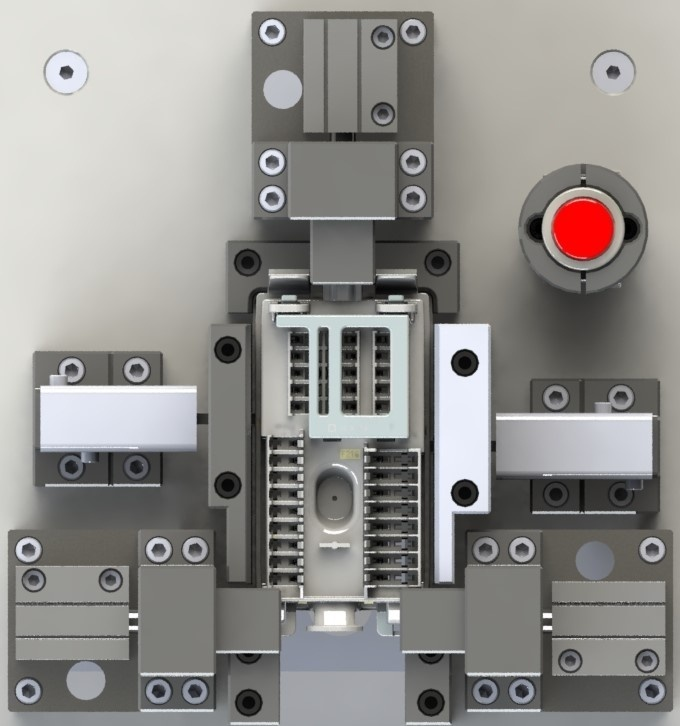
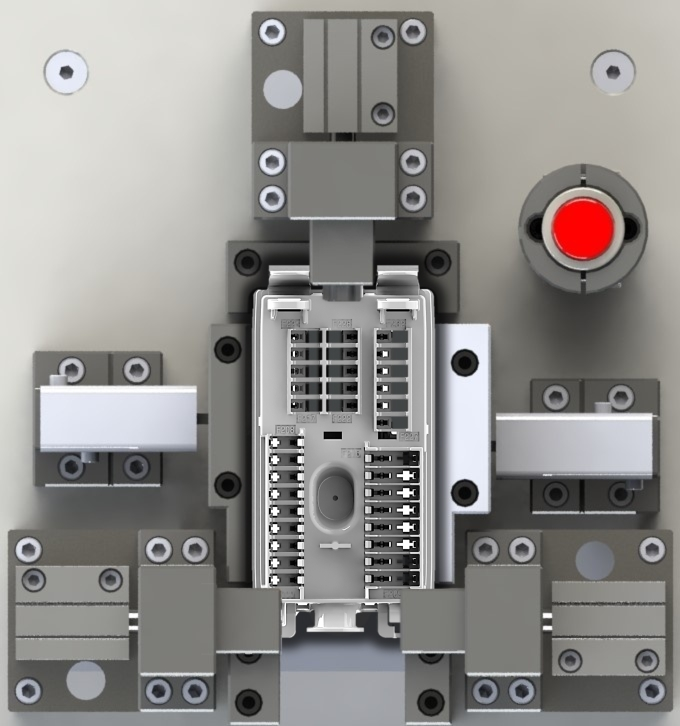
Se agrega la inspeccion del bracket PDCD
Se agrega PDCDbracket a las cajas pedidas,  y cuando detecta que la caja PDCD está clampeada al finalizar la inspeccion de las cajas clampeadas te pedirá colocar el bracket y comenzar la inspección, se contempla inspección de altura e inspeccion de vision

Changed region(s): [[0.3397, 0.3333, 0.6794, 0.9091]]

diff --git a/MANAGER/VISION/app/manager/model/__init__.py b/MANAGER/VISION/app/manager/model/__init__.py
@@ -49,6 +49,10 @@ class Model (object):
         self.F96_pendiente=False
         self.tiempo = ""
 
+        self.BRACKET_PDCD_clampeado=False
+        self.PDCD_bracket_pendiente=False
+        self.PDCD_bracket_terminado=False
+
         self.BB = {
             'BATTERY': {
                 'BT': ((169, 157), (231, 212))}, 
@@ -287,6 +291,9 @@ class Model (object):
                 'F228': [(376, 401), (388, 413)], 'F229': [(377, 386), (388, 392)], 'F230': [(378, 367), (390, 377)], 'F231': [(374, 350), (388, 362)], 
                 'F232': [(376, 333), (389, 344)]
                 },
+            'PDC-Dbracket':{
+                'bracket': [(273, 304), (420, 447)]
+                },
             'F96':{
                 'F96': [(253, 337), (483, 425)]
                 },
@@ -402,7 +409,8 @@ class Model (object):
             "PDC-R": ["R1","R2","R3","R4","R5","R6","R7","R8"],
             "PDC-RMID": ["R1","R2","R3","R4","R5","R6"],
             "PDC-RS": ["R1","R2","R3","R4","R5","R6"],
-            "F96": ["F96"]
+            "F96": ["F96"],
+            "PDC-Dbracket": ["Db1"]
             }
         #puntos guardados en robot a los que irá para sus inspecciones de visión
         self.rv_triggers = {
@@ -414,7 +422,8 @@ class Model (object):
             "PDC-R": ["PDCR_vision_1","PDCR_vision_2","PDCR_vision_3","PDCR_vision_4","PDCR_vision_5","PDCR_vision_6","PDCR_vision_7","PDCR_vision_8"],
             "PDC-RMID": ["PDCRMID_vision_1","PDCRMID_vision_2","PDCRMID_vision_3","PDCRMID_vision_4","PDCRMID_vision_5","PDCRMID_vision_6"],
             "PDC-RS": ["PDCRMID_vision_1","PDCRMID_vision_2","PDCRMID_vision_3","PDCRMID_vision_4","PDCRMID_vision_5","PDCRMID_vision_6"],
-            "F96": ["F96_vision_1"]
+            "F96": ["F96_vision_1"],
+            "PDC-Dbracket": ["PDCDbracket_vision_1"]
             }
         #nombre de programas a llamar para inspección de zonas(por bloque) en sensor (altura) en cada punto del robot
         self.h_triggers = {
@@ -425,7 +434,8 @@ class Model (object):
             "PDC-R": ["R1","R6","R10","R2","R4","R5","R3","R7","R8","R9","R11","R12","R13","R14"],
             "PDC-RMID": ["R1","R6","R10","R2","R4","R5","R3","R7","R8","R9"],
             "PDC-RS": ["R1","R6","R10","R2","R4","R5","R3","R7","R8","R9"],
-            "F96": ["F96"]
+            "F96": ["F96"],
+            "PDC-Dbracket": ["Db1"]
             }
         
         #puntos guardados en robot a los que irá para sus inspecciones de alturas
@@ -437,7 +447,8 @@ class Model (object):
             "PDC-R": ["PDCR_pa1","PDCR_pa6","PDCR_pa10","PDCR_pa2","PDCR_pa4","PDCR_pa5","PDCR_pa3","PDCR_pa7","PDCR_pa8","PDCR_pa9","PDCR_pa11","PDCR_pa12","PDCR_pa13","PDCR_pa14"],
             "PDC-RMID": ["PDCR_pa1","PDCR_pa6","PDCR_pa10","PDCR_pa2","PDCR_pa4","PDCR_pa5","PDCR_pa3","PDCR_pa7","PDCR_pa8","PDCR_pa9"],
             "PDC-RS": ["PDCR_pa1","PDCR_pa6","PDCR_pa10","PDCR_pa2","PDCR_pa4","PDCR_pa5","PDCR_pa3","PDCR_pa7","PDCR_pa8","PDCR_pa9"],
-            "F96": ["F96_pa1"]
+            "F96": ["F96_pa1"],
+            "PDC-Dbracket": ["PDCDbracket_pa1"]
             }
 
         print("v_triggers:\n",self.v_triggers)
@@ -493,7 +504,8 @@ class Model (object):
             "conector2":" PDCP2",
             "conector3":" PDCP2",
             "conector4":" PDCP2",
-            "conector5":" PDCP2"
+            "conector5":" PDCP2",
+            "bracket1":" PDCD"
 
             }
 
@@ -508,6 +520,10 @@ class Model (object):
     ###########################################################
 
     def reset (self):
+        self.BRACKET_PDCD_clampeado=False
+        self.PDCD_bracket_terminado=False
+        self.PDCD_bracket_pendiente=False
+        self.cajas_a_desclampear=[]
         self.F96_clampeado=False
         self.cajas_a_desclampear = []
         self.datetime = None
@@ -597,6 +613,9 @@ class Model (object):
                 'F218': 'vacio', 'F219': 'vacio', 'F220': 'vacio', 'F221': 'vacio', 'F222': 'vacio', 'F223': 'vacio', 'F224': 'vacio', 'F225': 'vacio', 'F226': 'vacio',
                 'F227': 'vacio', 'F228': 'vacio', 'F229': 'vacio', 'F230': 'vacio', 'F231': 'vacio', 'F232': 'vacio'
                 }, 
+            'PDC-Dbracket': {
+                'bracket': 'bracket1'
+                },
             'PDC-P': {
                 'MF1': 'vacio', 'MF2': 'vacio', 'F301': 'vacio', 'F302': 'vacio', 'F303': 'vacio', 'F304': 'vacio', 'F305': 'vacio', 'F300': 'vacio', 'F318': 'vacio',
                 'F319': 'vacio', 'F320': 'vacio', 'F321': 'vacio', 'F322': 'vacio', 'F323': 'vacio', 'F324': 'vacio', 'F325': 'vacio', 'F326': 'vacio', 'F327': 'vacio',
@@ -661,12 +680,12 @@ class Model (object):
                 for i in BB:
                     pts = self.fuses_BB[i[0]][i[1]]
                     rectangle(img, pts[0], pts[1], color, 2)
-                    if BB[0]=="PDC-P2":
+                    if BB[0]=="PDC-P2" or BB[0]=="PDC-Dbracket":
                         rectangle(img, pts[0], pts[1], color, 20)
             else:
                 pts = self.fuses_BB[BB[0]][BB[1]]
                 rectangle(img, pts[0], pts[1], color, 2)
-                if BB[0]=="PDC-P2":
+                if BB[0]=="PDC-P2" or BB[0]=="PDC-Dbracket":
                     rectangle(img, pts[0], pts[1], color, 20)
         except Exception as ex:
             print("Model.drawBB exception: ", ex)

diff --git a/MANAGER/VISION/app/manager/controller/inspections.py b/MANAGER/VISION/app/manager/controller/inspections.py
@@ -47,6 +47,7 @@ class Inspections(QState):
         ##con f96 sin instrumentar
         self.update_triggers.addTransition(self.update_triggers.F96_espera,self.wait_start)
         ##
+        self.update_triggers.addTransition(self.update_triggers.BRACKET_PDCD,self.wait_start)
         self.vision.addTransition(self.vision.retry, self.setup_robot)
         self.vision.addTransition(self.vision.finished, self.height)
         self.height.addTransition(self.height.retry, self.setup_robot)
@@ -87,11 +88,20 @@ class WaitStart(QState):
 
         print("############################## ESTADO: WaitStart INSPECTIONS ############################")
 
-        command = {
-            "lbl_result" : {"text": ""},
-            "lbl_steps" : {"text": "Presiona START para comenzar", "color": "green"}
-            }
-        publish.single(self.model.pub_topics["gui"],json.dumps(command),hostname='127.0.0.1', qos = 2)
+        if self.model.PDCD_bracket_pendiente and self.model.PDCD_bracket_terminado==False:
+
+            command = {
+                "lbl_result" : {"text": "Coloca el bracket de la caja PDC-D"},
+                "lbl_steps" : {"text": "Presiona START para comenzar", "color": "green"},
+                "img_center" : "boxes/PDC-Dbracket.jpg"
+                }
+            publish.single(self.model.pub_topics["gui"],json.dumps(command),hostname='127.0.0.1', qos = 2)
+        else:
+            command = {
+                "lbl_result" : {"text": ""},
+                "lbl_steps" : {"text": "Presiona START para comenzar", "color": "green"}
+                }
+            publish.single(self.model.pub_topics["gui"],json.dumps(command),hostname='127.0.0.1', qos = 2)
 
 
 class SetRobot(QState):
@@ -134,16 +144,19 @@ class LiberarCajas(QState):
         super().__init__(parent)
         self.model = model
 
-    def onEntry(self, QEvent):
-        print("############################## ESTADO: LiberarCajas INSPECTIONS ############################")
+        if self.model.PDCD_bracket_terminado or self.model.PDCD_bracket_pendiente==False:
+            print("pdcd y bracket terminado")
+            for box in self.model.cajas_a_desclampear:
+                publish.single(self.model.pub_topics["plc"],json.dumps({box : False}),hostname='127.0.0.1', qos = 2)
 
-        for box in self.model.cajas_a_desclampear:
-            publish.single(self.model.pub_topics["plc"],json.dumps({box : False}),hostname='127.0.0.1', qos = 2)
-
-        #se limpia la variable
-        self.model.cajas_a_desclampear = []
-        self.model.desclampear_ready = False
-        self.ok.emit()
+            #se limpia la variable
+            self.model.cajas_a_desclampear = []
+            self.model.desclampear_ready = False
+            self.ok.emit()
+        else:
+            print("bracket no terminado")
+            self.model.desclampear_ready = False
+            self.ok.emit()
 
 
 class UpdateTriggers(QState):
@@ -152,6 +165,7 @@ class UpdateTriggers(QState):
     nok         = pyqtSignal()
     esperar_robot_home = pyqtSignal()
     F96_espera  = pyqtSignal()
+    BRACKET_PDCD     = pyqtSignal()
     def __init__(self, model = None, parent = None):
         super().__init__(parent)
         self.model = model
@@ -163,6 +177,12 @@ class UpdateTriggers(QState):
             command = {"trigger": "HOME"}
             publish.single(self.model.pub_topics["robot"], json.dumps(command), hostname='127.0.0.1', qos = 2)
             self.esperar_robot_home.emit()
+            return
+        if self.model.PDCD_bracket_pendiente and self.model.BRACKET_PDCD_clampeado==False:
+            self.model.BRACKET_PDCD_clampeado=True
+            self.model.input_data["plc"]["clamps"].append("PDC-Dbracket")
+            self.BRACKET_PDCD.emit()
+            print("va a return de update triggers por pdc dbracket")
             return
         if self.model.F96_pendiente and self.model.F96_clampeado==False:
             self.model.input_data["plc"]["clamps"].append("F96")

diff --git a/MANAGER/VISION/app/manager/view/comm.py b/MANAGER/VISION/app/manager/view/comm.py
@@ -231,7 +231,30 @@ class MqttClient (QObject):
                 ##############################################################################################
                 payload_str = json.dumps(payload)       # convertir diccionario payload a string y guardarlo
                 print("payload_str: ",payload_str)
-                
+                if "PDC-Dbracket" in payload_str: #busca en el string PDC-D
+                    #if "PDC-Dbracket" in payload:
+                    #    if payload["PDC-Dbracket"] == True:
+                    #        self.nido_PDCD = "PDC-Dbracket:\n Habilitada"
+                    #        self.color_PDCD = "blue"
+                    #
+                    #    if payload["PDC-Dbracket"] == False:
+                    #        self.nido_PDCD = ""
+                    #        self.color_PDCD = "blue"
+                    #
+                    if "PDC-Dbracket_ERROR" in payload:
+                        if payload["PDC-D_ERROR"] == True:
+                            self.nido_PDCD = "PDC-Dbracket:\n clampeo incorrecto"
+                            self.color_PDCD = "red"
+
+                    if "clamp_PDC-Dbracket" in payload:
+                        if payload["clamp_PDC-Dbracket"] == True:
+                            self.nido_PDCD = "PDC-Dbracket:\n clampeo correcto"
+                            self.color_PDCD = "green"
+
+                    command = {
+                        "lbl_box1" : {"text": f"{self.nido_PDCD}", "color": f"{self.color_PDCD}"}
+                        }
+                    self.client.publish(self.model.pub_topics["gui"],json.dumps(command), qos = 2)
                 if "PDC-D" in payload_str: #busca en el string PDC-D
                     if "PDC-D" in payload:
                         if payload["PDC-D"] == True:
@@ -338,14 +361,14 @@ class MqttClient (QObject):
                     #    self.client.publish(self.model.pub_topics["gui"],json.dumps(command), qos = 2)
                 
 
-                if "PDC-S" in self.model.input_data["database"]["modularity"]:
-                    self.nido_PDCS = "PDC-S:\n Habilitada"
-                    self.color_PDCS = "blue"
-                    command = {
-                                "lbl_box4" : {"text": f"{self.nido_PDCS}", "color": f"{self.color_PDCS}"}
-                              }
-                    self.client.publish(self.model.pub_topics["gui"],json.dumps(command), qos = 2)
-
+                #if "PDC-S" in self.model.input_data["database"]["modularity"]:
+                #    self.nido_PDCS = "PDC-S:\n Habilitada"
+                #    self.color_PDCS = "blue"
+                #    command = {
+                #                "lbl_box4" : {"text": f"{self.nido_PDCS}", "color": f"{self.color_PDCS}"}
+                #              }
+                #    self.client.publish(self.model.pub_topics["gui"],json.dumps(command), qos = 2)
+                #
                 if "PDC-S" in payload_str:
                     if "PDC-S" in payload:
                         if payload["PDC-S"] == True:
@@ -586,6 +609,7 @@ class MqttClient (QObject):
 
             #variable para guardar los resultados obtenidos al hacer una inspección con sensor de altura keyence desde la GDI
             if message.topic == self.model.sub_topics["height"]:
+                self.model.input_data["height"].clear()
                 self.model.input_data["height"] = payload
                 print("*******************************************************")
                 print("model.input_data[height] en comm.py: \n",payload)

diff --git a/MANAGER/VISION/app/manager/controller/__init__.py b/MANAGER/VISION/app/manager/controller/__init__.py
@@ -150,7 +150,7 @@ class Startup(QState):
     def onEntry(self, event):
 
         print("############################## ESTADO: Startup ############################")
-
+        self.model.cajas_a_desclampear = []
         if self.model.local_data["user"]["type"] != "":
             Timer(0.05, self.logout, args = (copy(self.model.local_data["user"]),)).start()
 
@@ -833,7 +833,8 @@ class CheckQr (QState):
                 #Se agrega nueva inspeccion obligatoria para todos los arneses la caja PDC-P2
                 self.model.input_data["database"]["modularity"]["PDC-P2"] = ['CONECTOR1', 'CONECTOR2']
                 
-                
+                #Se agrega nueva inspeccion obligatoria para todos los arneses el bracket de la caja PDCD
+                self.model.input_data["database"]["modularity"]["PDC-Dbracket"] = ['bracket']
                 
                 print("\t\tCOLECCIÓN:\n", self.model.input_data["database"]["modularity"])
                 print("\t\tmodularity_fuses:\n", self.model.modularity_fuses) #Temporal solo para ver los fusibles cuando sea un vehículo Z296 (MAXI 30A VERDE Nuevo)
@@ -1433,7 +1434,11 @@ class Reset (QState):
     def onEntry(self, event):
 
         print("############################## ESTADO: Reset ############################")
-
+        self.model.cronometro_ciclo=False
+        self.model.cajas_a_desclampear=[]
+        self.model.PDCD_bracket_pendiente=False
+        self.model.PDCD_bracket_terminado=False
+        self.model.BRACKET_PDCD_clampeado=False
         command = {
             "lbl_result" : {"text": "Se giró la llave de reset", "color": "green"},
             "lbl_steps" : {"text": "Reiniciando", "color": "black"},

diff --git a/MANAGER/VISION/app/manager/controller/height.py b/MANAGER/VISION/app/manager/controller/height.py
@@ -441,6 +441,12 @@ class Pose(QState):
             #se guardan las cajas terminadas actuales en una variable para posteriormente desclampearlas cuando el robot esté en home
             self.model.cajas_a_desclampear.append(box)
 
+            if "PDC-D" in self.model.cajas_a_desclampear and len(clamps)<1:
+                self.model.PDCD_bracket_pendiente=True
+
+            if "PDC-Dbracket" in self.model.cajas_a_desclampear:
+                self.model.PDCD_bracket_terminado=True
+
             #si ya no le quedan cajas por inspeccionar de las que se clampearon
             if len(clamps) == 0:
                 self.model.desclampear_ready = True
